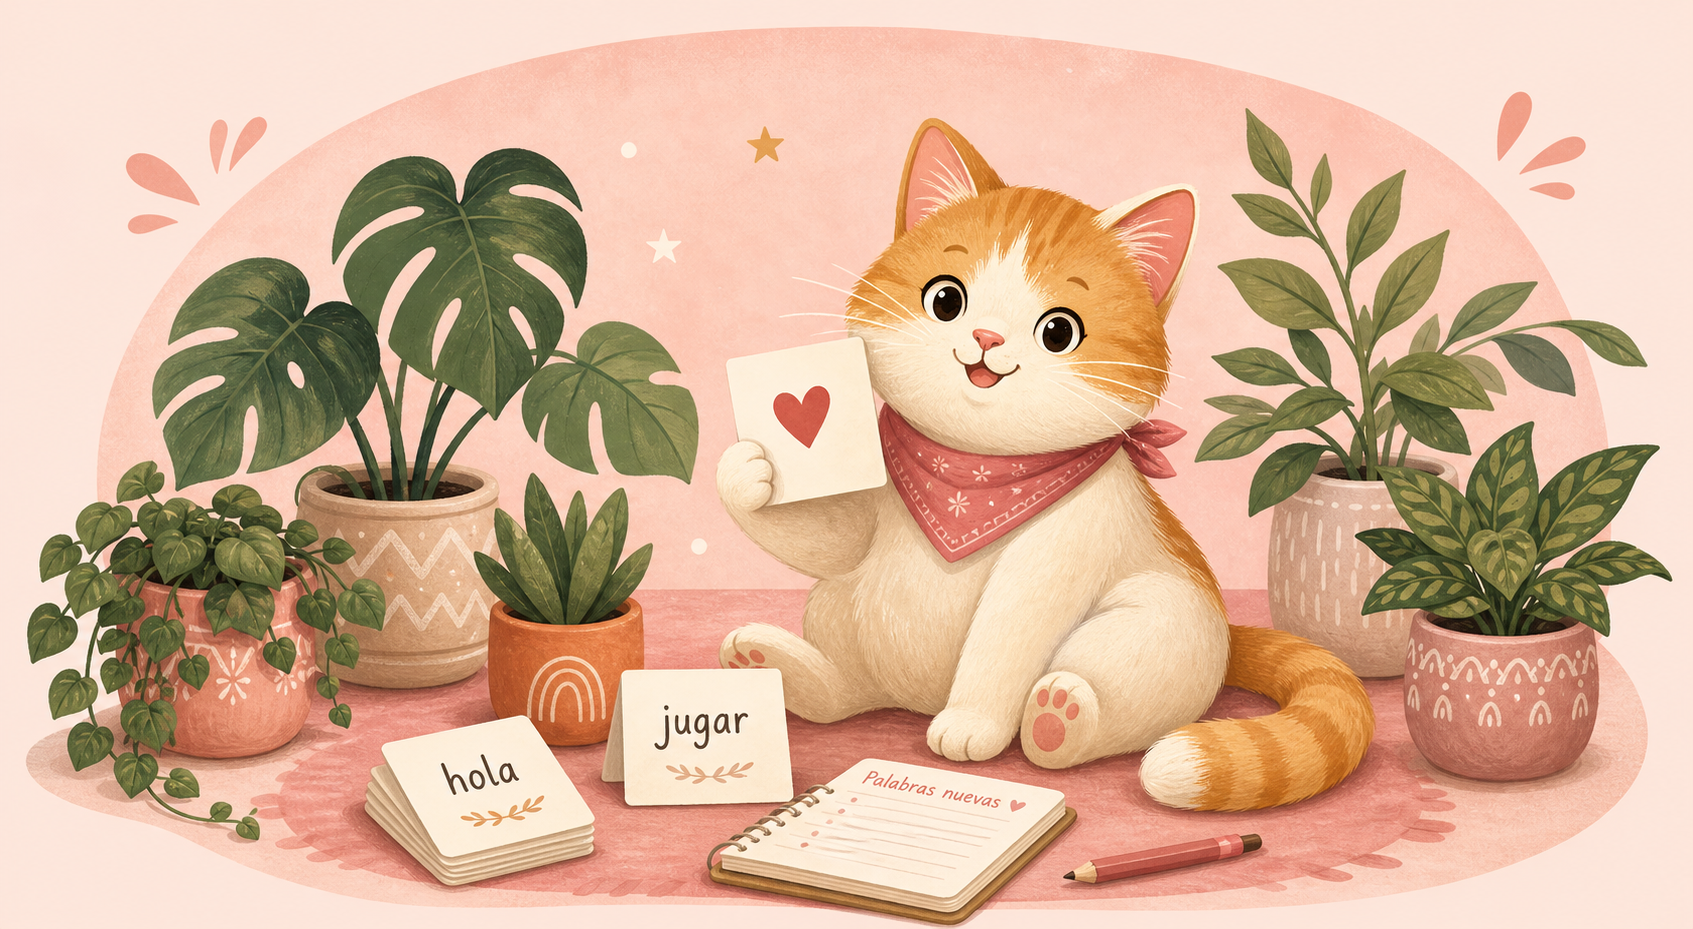
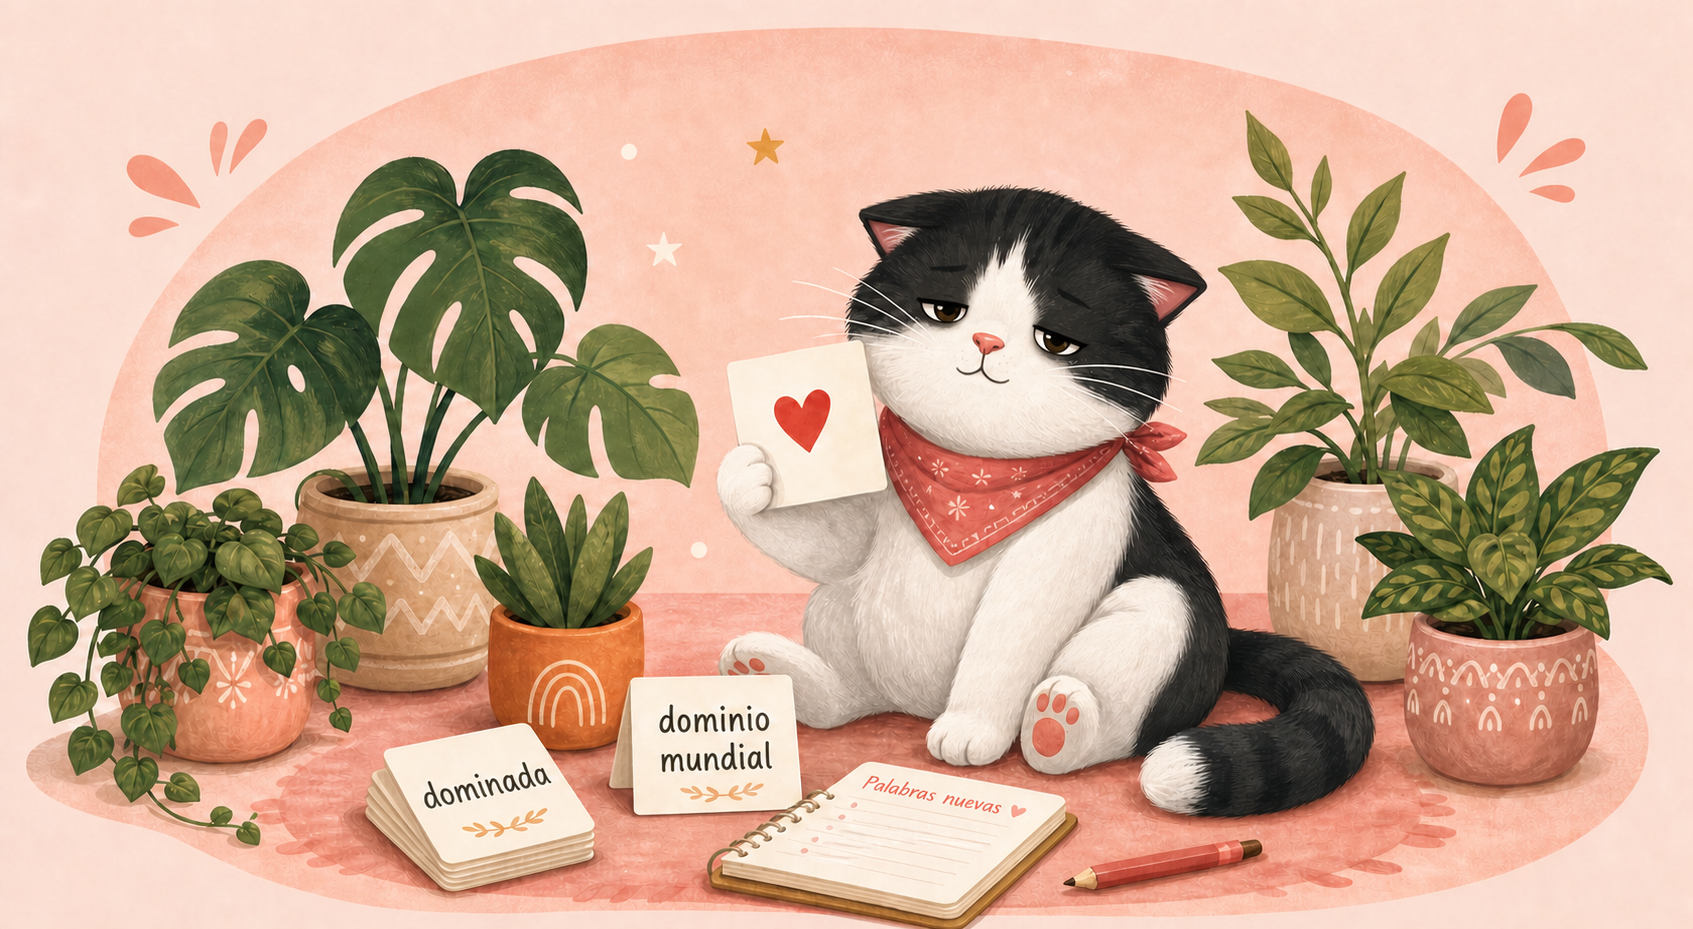
update

diff --git a/index.html b/index.html
@@ -760,7 +760,7 @@
 
 <div class="hero">
   <div class="hero-copy">
-    <h1>Learn Spanish with <em>curiosity</em> and play</h1>
+    <h1>Welcome to <em>cosy language learning</em></h1>
     <p>Fifteen friendly games for real vocabulary, Spanish culture, geography, history, music, and everyday conversation. Pick a cozy corner and start playing.</p>
     <div class="stats-row">
       <div class="stat"><span class="stat-num" id="statPlayed">0</span><span class="stat-label">Games Played</span></div>
